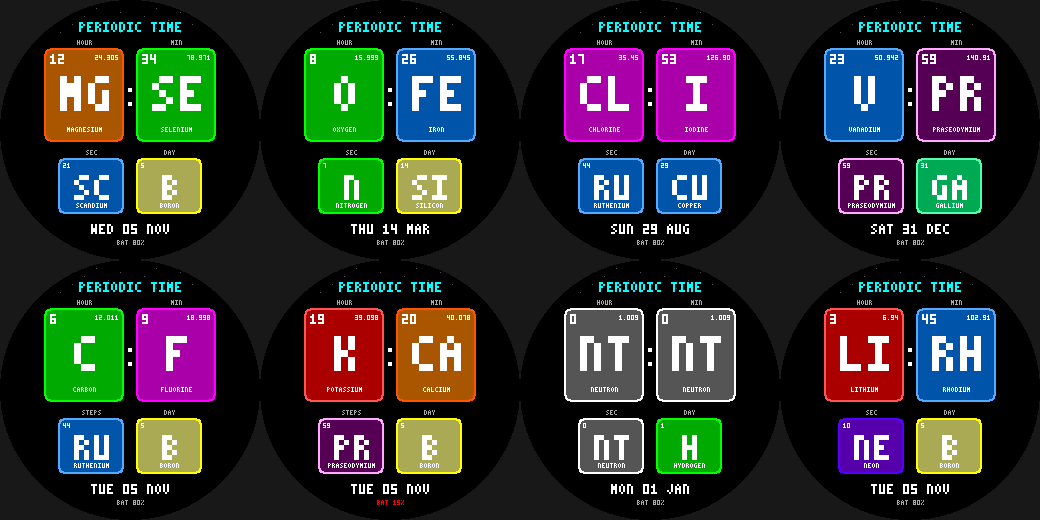
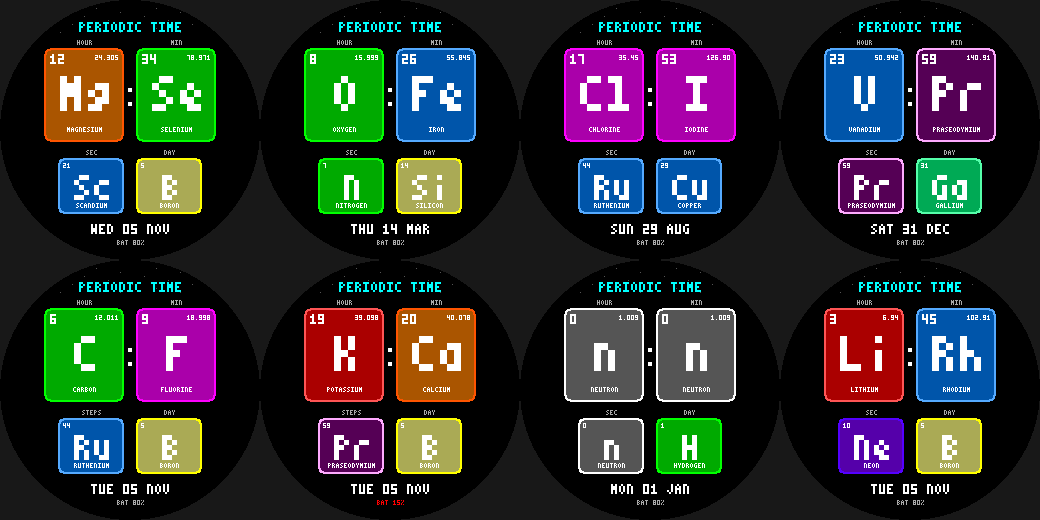
lab: mixed-case element symbols (lowercase micro font), scope halo only on short curves, rebuilt release
Claude-Session: https://claude.ai/code/session_011ky8cAnUXaEurYwVogiPNe

diff --git a/lab/common/face.h b/lab/common/face.h
@@ -211,6 +211,16 @@ static const Glyph MICRO[] = {
   {'=', "000111000111000"}, {'*', "101010111010101"}, {'(', "010100100100010"},
   {')', "010001001001010"}, {'\'', "010010000000000"}, {'^', "010101000000000"},
 };
+// lowercase letters (3x5, x-height 4 with ascenders/descenders squeezed into the grid), used only by micro_mixed()
+static const Glyph MICRO_LC[] = {
+  {'a', "000011101101011"}, {'b', "100100110101110"}, {'c', "000011100100011"}, {'d', "001001011101011"},
+  {'e', "000010101110011"}, {'f', "011010111010010"}, {'g', "000011101011110"}, {'h', "100100110101101"},
+  {'i', "010000010010010"}, {'j', "001000001101010"}, {'k', "100101110101101"}, {'l', "110010010010111"},
+  {'m', "000111111101101"}, {'n', "000110101101101"}, {'o', "000010101101010"}, {'p', "000110101110100"},
+  {'q', "000011101011001"}, {'r', "000011100100100"}, {'s', "000011110011110"}, {'t', "010111010010001"},
+  {'u', "000101101101011"}, {'v', "000101101101010"}, {'w', "000101111111101"}, {'x', "000101010101101"},
+  {'y', "000101101011110"}, {'z', "000111010100111"},
+};
 static int micro_width(const char *s, int sc) {
   int n = (int)strlen(s);
   return n ? n * 4 * sc - sc : 0;
@@ -237,6 +247,29 @@ static void micro(const char *s, int x, int y, int sc, GColor c) {
 }
 static void micro_c(const char *s, int cx, int y, int sc, GColor c) { micro(s, cx - micro_width(s, sc) / 2, y, sc, c); }
 static void micro_r(const char *s, int rx, int y, int sc, GColor c) { micro(s, rx - micro_width(s, sc), y, sc, c); }
+// like micro(), but lowercase letters keep their lowercase shapes (for chemical symbols such as Mg, Fe)
+static void micro_mixed(const char *s, int x, int y, int sc, GColor c) {
+  for (; *s; s++, x += 4 * sc) {
+    const Glyph *tab = MICRO;
+    size_t n = sizeof(MICRO) / sizeof(MICRO[0]);
+    if (*s >= 'a' && *s <= 'z') { tab = MICRO_LC; n = sizeof(MICRO_LC) / sizeof(MICRO_LC[0]); }
+    for (size_t i = 0; i < n; i++) {
+      if (tab[i].ch != *s) continue;
+      for (int r = 0; r < 5; r++) {
+        int k = 0;
+        while (k < 3) {
+          if (tab[i].bits[r * 3 + k] != '1') { k++; continue; }
+          int e = k;
+          while (e < 3 && tab[i].bits[r * 3 + e] == '1') e++;
+          R(c, x + k * sc, y + r * sc, (e - k) * sc, sc);
+          k = e;
+        }
+      }
+      break;
+    }
+  }
+}
+static void micro_mixed_c(const char *s, int cx, int y, int sc, GColor c) { micro_mixed(s, cx - micro_width(s, sc) / 2, y, sc, c); }
 
 // 7-segment neon-tube digit on a 7x11 grid (cell = sc px): glow halo, coloured tube, white core
 static const uint8_t SEG7[10] = {0x3F, 0x06, 0x5B, 0x4F, 0x66, 0x6D, 0x7D, 0x07, 0x7F, 0x6F};

diff --git a/lab/elements/src/c/main.c b/lab/elements/src/c/main.c
@@ -7,12 +7,12 @@
 #include "../../../common/face.h"
 
 static const char *SYM[60] = {
-  "NT", "H", "HE", "LI", "BE", "B", "C", "N", "O", "F",
-  "NE", "NA", "MG", "AL", "SI", "P", "S", "CL", "AR", "K",
-  "CA", "SC", "TI", "V", "CR", "MN", "FE", "CO", "NI", "CU",
-  "ZN", "GA", "GE", "AS", "SE", "BR", "KR", "RB", "SR", "Y",
-  "ZR", "NB", "MO", "TC", "RU", "RH", "PD", "AG", "CD", "IN",
-  "SN", "SB", "TE", "I", "XE", "CS", "BA", "LA", "CE", "PR",
+  "n", "H", "He", "Li", "Be", "B", "C", "N", "O", "F",
+  "Ne", "Na", "Mg", "Al", "Si", "P", "S", "Cl", "Ar", "K",
+  "Ca", "Sc", "Ti", "V", "Cr", "Mn", "Fe", "Co", "Ni", "Cu",
+  "Zn", "Ga", "Ge", "As", "Se", "Br", "Kr", "Rb", "Sr", "Y",
+  "Zr", "Nb", "Mo", "Tc", "Ru", "Rh", "Pd", "Ag", "Cd", "In",
+  "Sn", "Sb", "Te", "I", "Xe", "Cs", "Ba", "La", "Ce", "Pr",
 };
 static const char *NAME[60] = {
   "NEUTRON", "HYDROGEN", "HELIUM", "LITHIUM", "BERYLLIUM", "BORON", "CARBON", "NITROGEN", "OXYGEN", "FLUORINE",
@@ -76,7 +76,7 @@ static void tile(int x, int y, int w, int h, int z, const char *label) {
   micro(buf, x + 6, y + 6, 2, GColorWhite);
   micro_r(MASS[z], x + w - 6, y + 7, 1, GColorWhite);
   int sc = 7;
-  micro_c(SYM[z], x + w / 2, y + 28, sc, GColorWhite);
+  micro_mixed_c(SYM[z], x + w / 2, y + 28, sc, GColorWhite);
   micro_c(NAME[z], x + w / 2, y + h - 15, 1, GColorWhite);
   micro_c(label, x + w / 2, y - 8, 1, GColorLightGray);
 }
@@ -89,7 +89,7 @@ static void tile_small(int x, int y, int w, int h, int z, const char *label) {
   char buf[12];
   snprintf(buf, sizeof(buf), "%d", z);
   micro(buf, x + 5, y + 5, 1, GColorWhite);
-  micro_c(SYM[z], x + w / 2, y + 17, 5, GColorWhite);
+  micro_mixed_c(SYM[z], x + w / 2, y + 17, 5, GColorWhite);
   micro_c(NAME[z], x + w / 2, y + h - 11, 1, GColorWhite);
   micro_c(label, x + w / 2, y - 8, 1, GColorLightGray);
 }

diff --git a/lab/scope/src/c/main.c b/lab/scope/src/c/main.c
@@ -31,8 +31,9 @@ static void lissajous(int a, int b, int phase) {
   const int amp = 74;
   int px = 0, py = 0;
   int bx = 0, by = 0;
-  // two passes: a dim wide halo, then the bright core
-  for (int pass = 0; pass < 2; pass++) {
+  // two passes: a dim wide halo, then the bright core (the halo is skipped for long, busy curves to save work)
+  bool halo = (a == b) || (a + b) <= 7;
+  for (int pass = halo ? 0 : 1; pass < 2; pass++) {
     for (int t = 0; t <= 360; t++) {
       int x = SCX + (amp * isin(a * t + phase)) / 1024;
       int y = SCY - (amp * isin(b * t)) / 1024;

diff --git a/lab/elements/README.md b/lab/elements/README.md
@@ -2,7 +2,7 @@
 
 A periodic-table watchface for the Pebble Round 2 (`gabbro`). Hour, minute, seconds and day-of-month
 are shown as element tiles - atomic number, symbol, name and atomic mass - coloured by element family.
-12:34 is **Mg** (24.305) and **Se** (78.971); 23:59 is **V** and **Pr**.
+12:34 is **Mg** (24.305; mixed-case symbols use a small lowercase font) and **Se** (78.971); 23:59 is **V** and **Pr**.
 
 ![preview](docs/preview.png)
 
